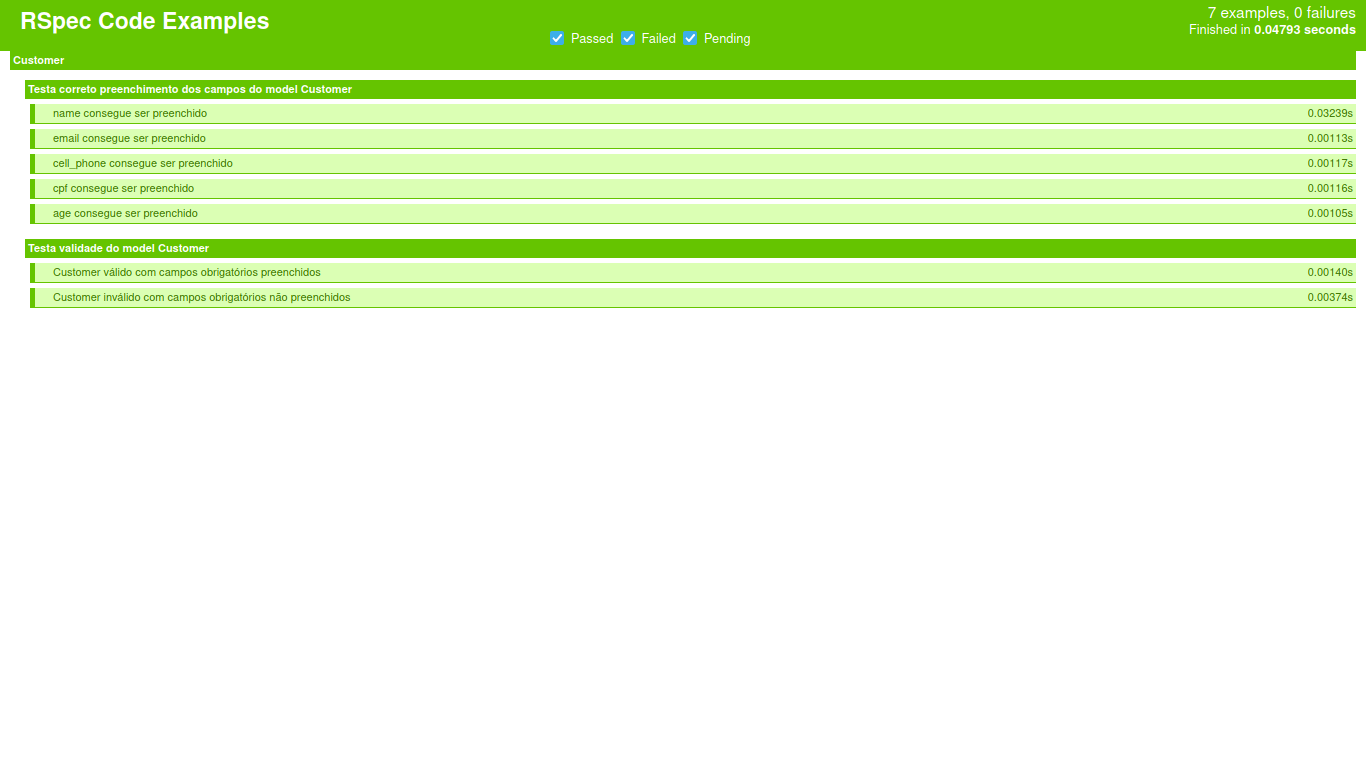
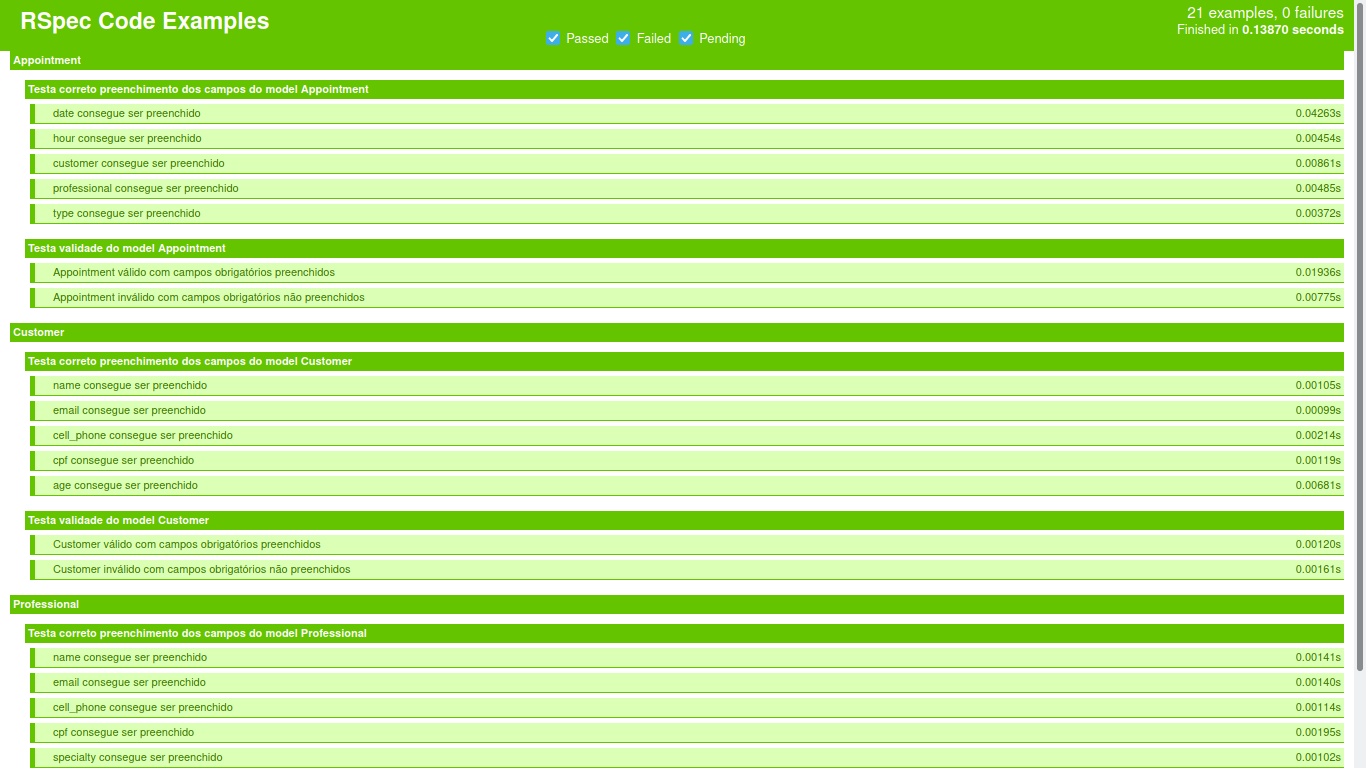
12° commit - teste controller customers RED

diff --git a/spec/resultados_rspec.html b/spec/resultados_rspec.html
@@ -279,95 +279,10 @@ a {
 
 
 <div class="results">
-<div id="div_group_1" class="example_group passed">
-  <dl style="margin-left: 0px;">
-  <dt id="example_group_1" class="passed">Appointment</dt>
   </dl>
 </div>
-<div id="div_group_2" class="example_group passed">
-  <dl style="margin-left: 15px;">
-  <dt id="example_group_2" class="passed">Testa correto preenchimento dos campos do model Appointment</dt>
-    <script type="text/javascript">moveProgressBar('4.7');</script>
-    <dd class="example passed"><span class="passed_spec_name">date consegue ser preenchido</span><span class='duration'>0.04263s</span></dd>
-    <script type="text/javascript">moveProgressBar('9.5');</script>
-    <dd class="example passed"><span class="passed_spec_name">hour consegue ser preenchido</span><span class='duration'>0.00454s</span></dd>
-    <script type="text/javascript">moveProgressBar('14.2');</script>
-    <dd class="example passed"><span class="passed_spec_name">customer consegue ser preenchido</span><span class='duration'>0.00861s</span></dd>
-    <script type="text/javascript">moveProgressBar('19.0');</script>
-    <dd class="example passed"><span class="passed_spec_name">professional consegue ser preenchido</span><span class='duration'>0.00485s</span></dd>
-    <script type="text/javascript">moveProgressBar('23.8');</script>
-    <dd class="example passed"><span class="passed_spec_name">type consegue ser preenchido</span><span class='duration'>0.00372s</span></dd>
-  </dl>
-</div>
-<div id="div_group_3" class="example_group passed">
-  <dl style="margin-left: 15px;">
-  <dt id="example_group_3" class="passed">Testa validade do model Appointment</dt>
-    <script type="text/javascript">moveProgressBar('28.5');</script>
-    <dd class="example passed"><span class="passed_spec_name">Appointment válido com campos obrigatórios preenchidos</span><span class='duration'>0.01936s</span></dd>
-    <script type="text/javascript">moveProgressBar('33.3');</script>
-    <dd class="example passed"><span class="passed_spec_name">Appointment inválido com campos obrigatórios não preenchidos</span><span class='duration'>0.00775s</span></dd>
-  </dl>
-</div>
-<div id="div_group_4" class="example_group passed">
-  <dl style="margin-left: 0px;">
-  <dt id="example_group_4" class="passed">Customer</dt>
-  </dl>
-</div>
-<div id="div_group_5" class="example_group passed">
-  <dl style="margin-left: 15px;">
-  <dt id="example_group_5" class="passed">Testa correto preenchimento dos campos do model Customer</dt>
-    <script type="text/javascript">moveProgressBar('38.0');</script>
-    <dd class="example passed"><span class="passed_spec_name">name consegue ser preenchido</span><span class='duration'>0.00105s</span></dd>
-    <script type="text/javascript">moveProgressBar('42.8');</script>
-    <dd class="example passed"><span class="passed_spec_name">email consegue ser preenchido</span><span class='duration'>0.00099s</span></dd>
-    <script type="text/javascript">moveProgressBar('47.6');</script>
-    <dd class="example passed"><span class="passed_spec_name">cell_phone consegue ser preenchido</span><span class='duration'>0.00214s</span></dd>
-    <script type="text/javascript">moveProgressBar('52.3');</script>
-    <dd class="example passed"><span class="passed_spec_name">cpf consegue ser preenchido</span><span class='duration'>0.00119s</span></dd>
-    <script type="text/javascript">moveProgressBar('57.1');</script>
-    <dd class="example passed"><span class="passed_spec_name">age consegue ser preenchido</span><span class='duration'>0.00681s</span></dd>
-  </dl>
-</div>
-<div id="div_group_6" class="example_group passed">
-  <dl style="margin-left: 15px;">
-  <dt id="example_group_6" class="passed">Testa validade do model Customer</dt>
-    <script type="text/javascript">moveProgressBar('61.9');</script>
-    <dd class="example passed"><span class="passed_spec_name">Customer válido com campos obrigatórios preenchidos</span><span class='duration'>0.00120s</span></dd>
-    <script type="text/javascript">moveProgressBar('66.6');</script>
-    <dd class="example passed"><span class="passed_spec_name">Customer inválido com campos obrigatórios não preenchidos</span><span class='duration'>0.00161s</span></dd>
-  </dl>
-</div>
-<div id="div_group_7" class="example_group passed">
-  <dl style="margin-left: 0px;">
-  <dt id="example_group_7" class="passed">Professional</dt>
-  </dl>
-</div>
-<div id="div_group_8" class="example_group passed">
-  <dl style="margin-left: 15px;">
-  <dt id="example_group_8" class="passed">Testa correto preenchimento dos campos do model Professional</dt>
-    <script type="text/javascript">moveProgressBar('71.4');</script>
-    <dd class="example passed"><span class="passed_spec_name">name consegue ser preenchido</span><span class='duration'>0.00141s</span></dd>
-    <script type="text/javascript">moveProgressBar('76.1');</script>
-    <dd class="example passed"><span class="passed_spec_name">email consegue ser preenchido</span><span class='duration'>0.00140s</span></dd>
-    <script type="text/javascript">moveProgressBar('80.9');</script>
-    <dd class="example passed"><span class="passed_spec_name">cell_phone consegue ser preenchido</span><span class='duration'>0.00114s</span></dd>
-    <script type="text/javascript">moveProgressBar('85.7');</script>
-    <dd class="example passed"><span class="passed_spec_name">cpf consegue ser preenchido</span><span class='duration'>0.00195s</span></dd>
-    <script type="text/javascript">moveProgressBar('90.4');</script>
-    <dd class="example passed"><span class="passed_spec_name">specialty consegue ser preenchido</span><span class='duration'>0.00102s</span></dd>
-  </dl>
-</div>
-<div id="div_group_9" class="example_group passed">
-  <dl style="margin-left: 15px;">
-  <dt id="example_group_9" class="passed">Testa validade do model professional</dt>
-    <script type="text/javascript">moveProgressBar('95.2');</script>
-    <dd class="example passed"><span class="passed_spec_name">Professional válido com campos obrigatórios preenchidos</span><span class='duration'>0.00137s</span></dd>
-    <script type="text/javascript">moveProgressBar('100.0');</script>
-    <dd class="example passed"><span class="passed_spec_name">Professional inválido com campos obrigatórios não preenchidos</span><span class='duration'>0.00129s</span></dd>
-  </dl>
-</div>
-<script type="text/javascript">document.getElementById('duration').innerHTML = "Finished in <strong>0.13870 seconds</strong>";</script>
-<script type="text/javascript">document.getElementById('totals').innerHTML = "21 examples, 0 failures";</script>
+<script type="text/javascript">document.getElementById('duration').innerHTML = "Finished in <strong>0.00024 seconds</strong>";</script>
+<script type="text/javascript">document.getElementById('totals').innerHTML = "0 examples, 0 failures";</script>
 </div>
 </div>
 </body>

diff --git a/spec/controllers/customers_controller_spec.rb b/spec/controllers/customers_controller_spec.rb
@@ -1,0 +1,16 @@
+require "rails_helper"
+
+RSpec.describe CustomersController, type: :controller do
+
+  describe "Testa actions do controller Customers" do
+
+    it "INDEX retorna status 200" do
+
+      get :index
+      expect(response).to have_http_status(200)
+      
+    end
+
+  end
+
+end
